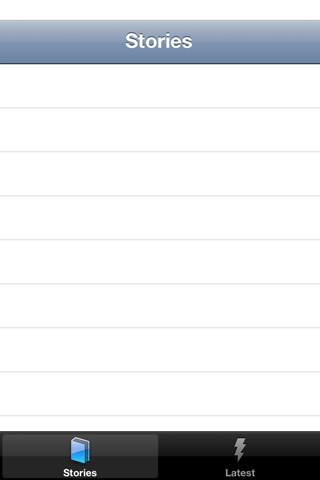
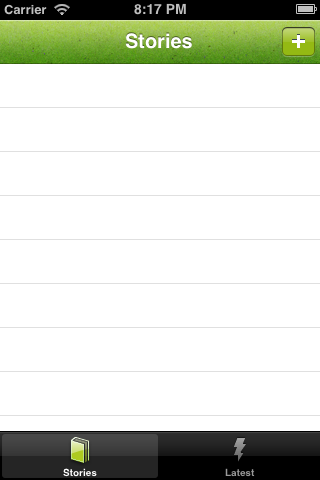
Added green textures and tints

diff --git a/Storeys/STAppDelegate.m b/Storeys/STAppDelegate.m
@@ -22,6 +22,19 @@
     UINavigationController *navigationController = [[tabBarController viewControllers] objectAtIndex:0];
     STStoriesViewController *storiesViewController = [[navigationController viewControllers] objectAtIndex:0];
     
+    // Set status bar to black
+    [[UIApplication sharedApplication] setStatusBarStyle:UIStatusBarStyleBlackOpaque animated:NO];
+    
+    // Set navigation bar colors
+    UINavigationBar* navigationBar = [UINavigationBar appearance];
+    UIImage *image = [UIImage imageNamed:@"NavBar.png"];
+    [navigationBar setBackgroundImage:image forBarMetrics:UIBarMetricsDefault];
+    [navigationBar setTintColor:[UIColor colorWithRed:.682 green:.792 blue:.125 alpha:1]];
+    
+    // Set tab bar colors
+    [[UITabBar appearance] setSelectedImageTintColor:[UIColor colorWithRed:.682 green:.792 blue:.125 alpha:1]];
+    
+    // Load table data
     [storiesViewController reloadTableData];
     
     return YES;

diff --git a/Storeys/STSingleStoryViewController.m b/Storeys/STSingleStoryViewController.m
@@ -36,7 +36,7 @@
 - (void)viewDidLoad
 {
     [super viewDidLoad];
-    
+
     // Pull to refresh
     [webView setDelegate:(id)self];
     webView.tag = 999;
